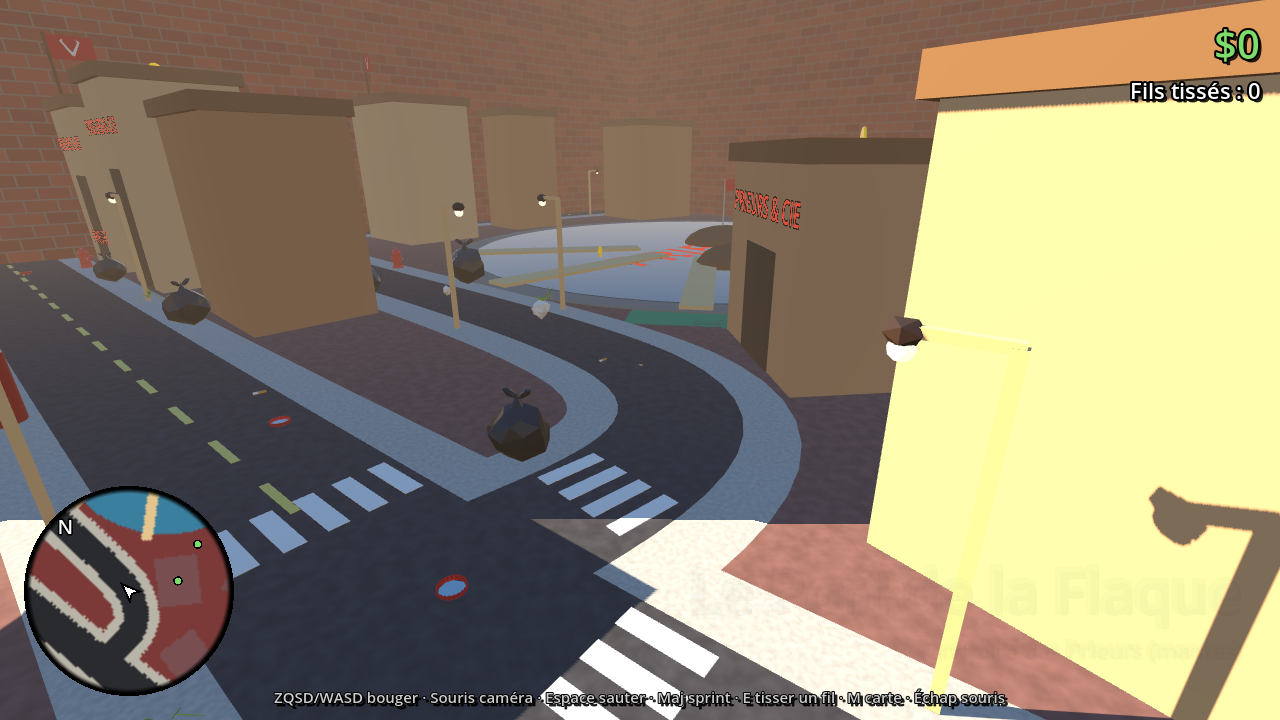
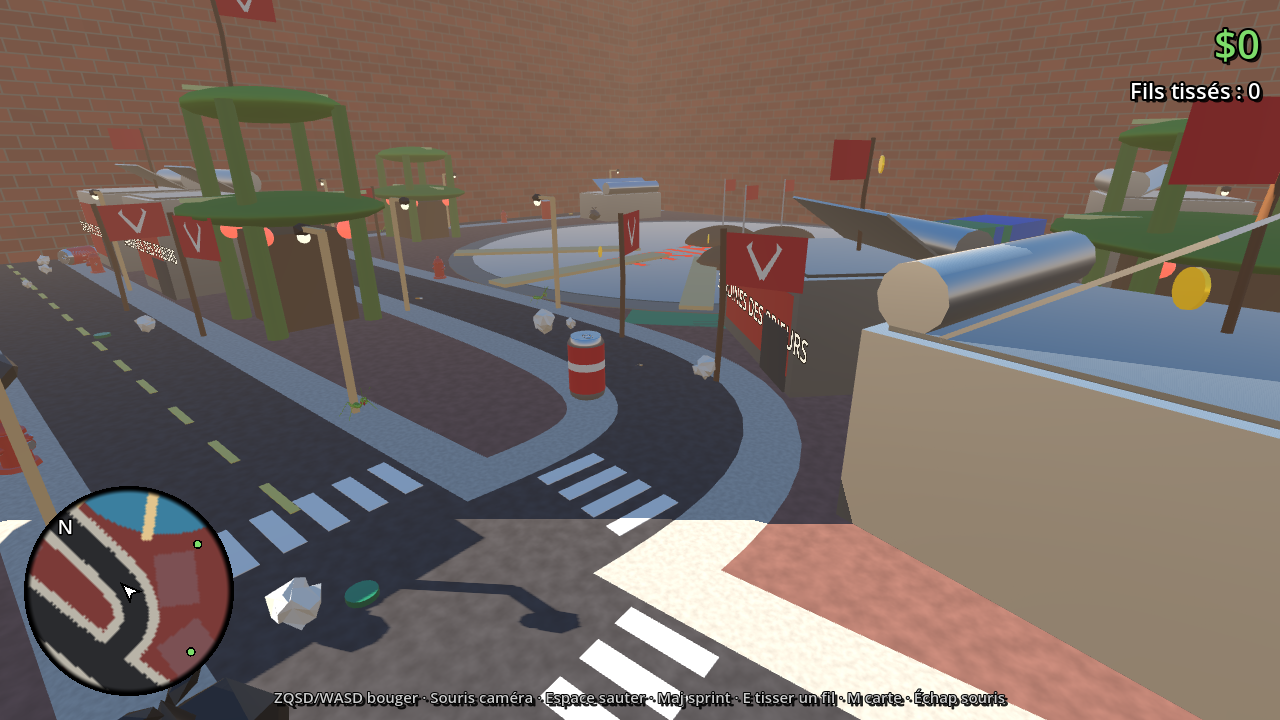
Bâtiments propres à chaque gang : fourmilières, tours à toiles, tours de déchets, docks
Claude-Session: https://claude.ai/code/session_01B9s6QRz2AjPQ3ctkbFFHFF

diff --git a/MAP.md b/MAP.md
@@ -19,6 +19,15 @@ façade vers la chaussée, puis l'arrière des îlots est rempli. Les quartiers 
 quand une rue entre dans un territoire, une borne et une bande de peinture aux couleurs du gang le signalent.
 Chaque quartier est teinté de la couleur de son gang au sol, sur le radar et sur la carte (touche **M**).
 
+Dans chaque territoire, la plupart des bâtiments sont ceux du gang (`scripts/city/gang_buildings.gd`) :
+fourmilières en terre percées d'entrées pour la Colonie, tours sombres voilées de soie et faisceaux de brindilles
+tendus de grosses toiles (avec cocons et fils d'ancrage sur lesquels on marche) pour les Tisseuses,
+canettes empilées, bouteilles et cartons pour la Nuée, boîtes de sardines et temples de feuilles pour les Prieurs.
+Si le fil des assets fournit `assets/models/gang_<gang>_<n>.glb`, ces modèles sont utilisés en priorité.
+
+![La Toile](docs/map/toile.png)
+![Les fourmilières](docs/map/chantier.png)
+
 | Quartier | Gang | Couleur | Ce qu'on y trouve |
 |---|---|---|---|
 | Le Centre-Ville | neutre | beige | la Banque Centrale (colonnes en crayons, piles de pièces), les plus hautes tours au cœur, le parc rond avec une fontaine-capsule et la bouche d'incendie géante |
